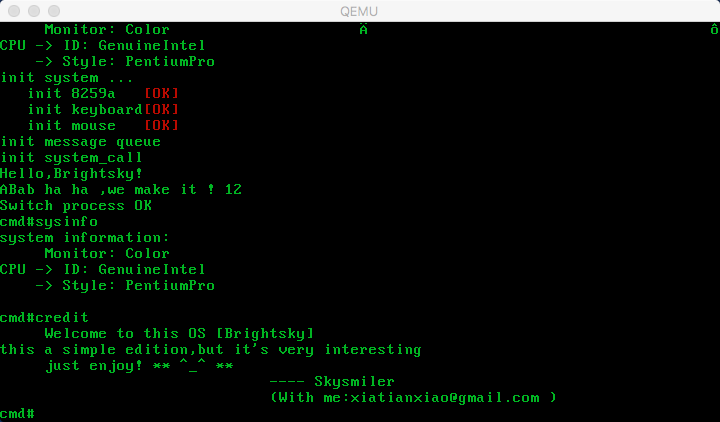
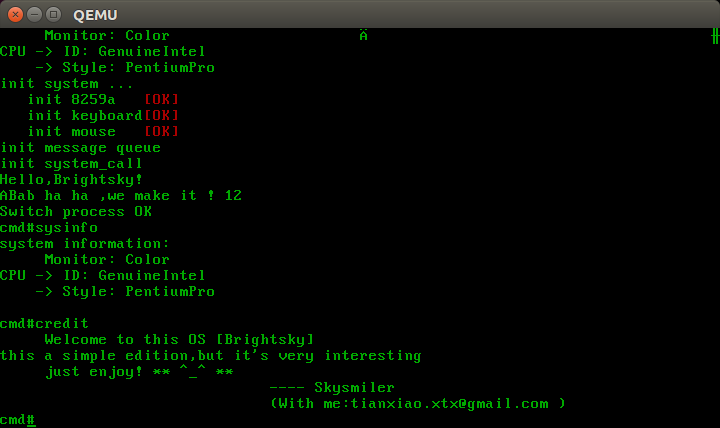
change build platform to Linux (ubuntu 16.04) update my new email

diff --git a/kernel/console.c b/kernel/console.c
@@ -172,7 +172,7 @@ void credit(void)
 {
 	kpf("\tWelcome to this OS [Brightsky]\n"
 		"this a simple edition,but it's very interesting\n\tjust enjoy! ** ^_^ **"
-		"\n\t\t\t\t\t\t---- Skysmiler	\n\t\t\t\t\t\t(With me:xiatianxiao@gmail.com )");
+		"\n\t\t\t\t\t\t---- Skysmiler	\n\t\t\t\t\t\t(With me:tianxiao.xtx@gmail.com )");
 }
 
 void exec_inter(char* str)
